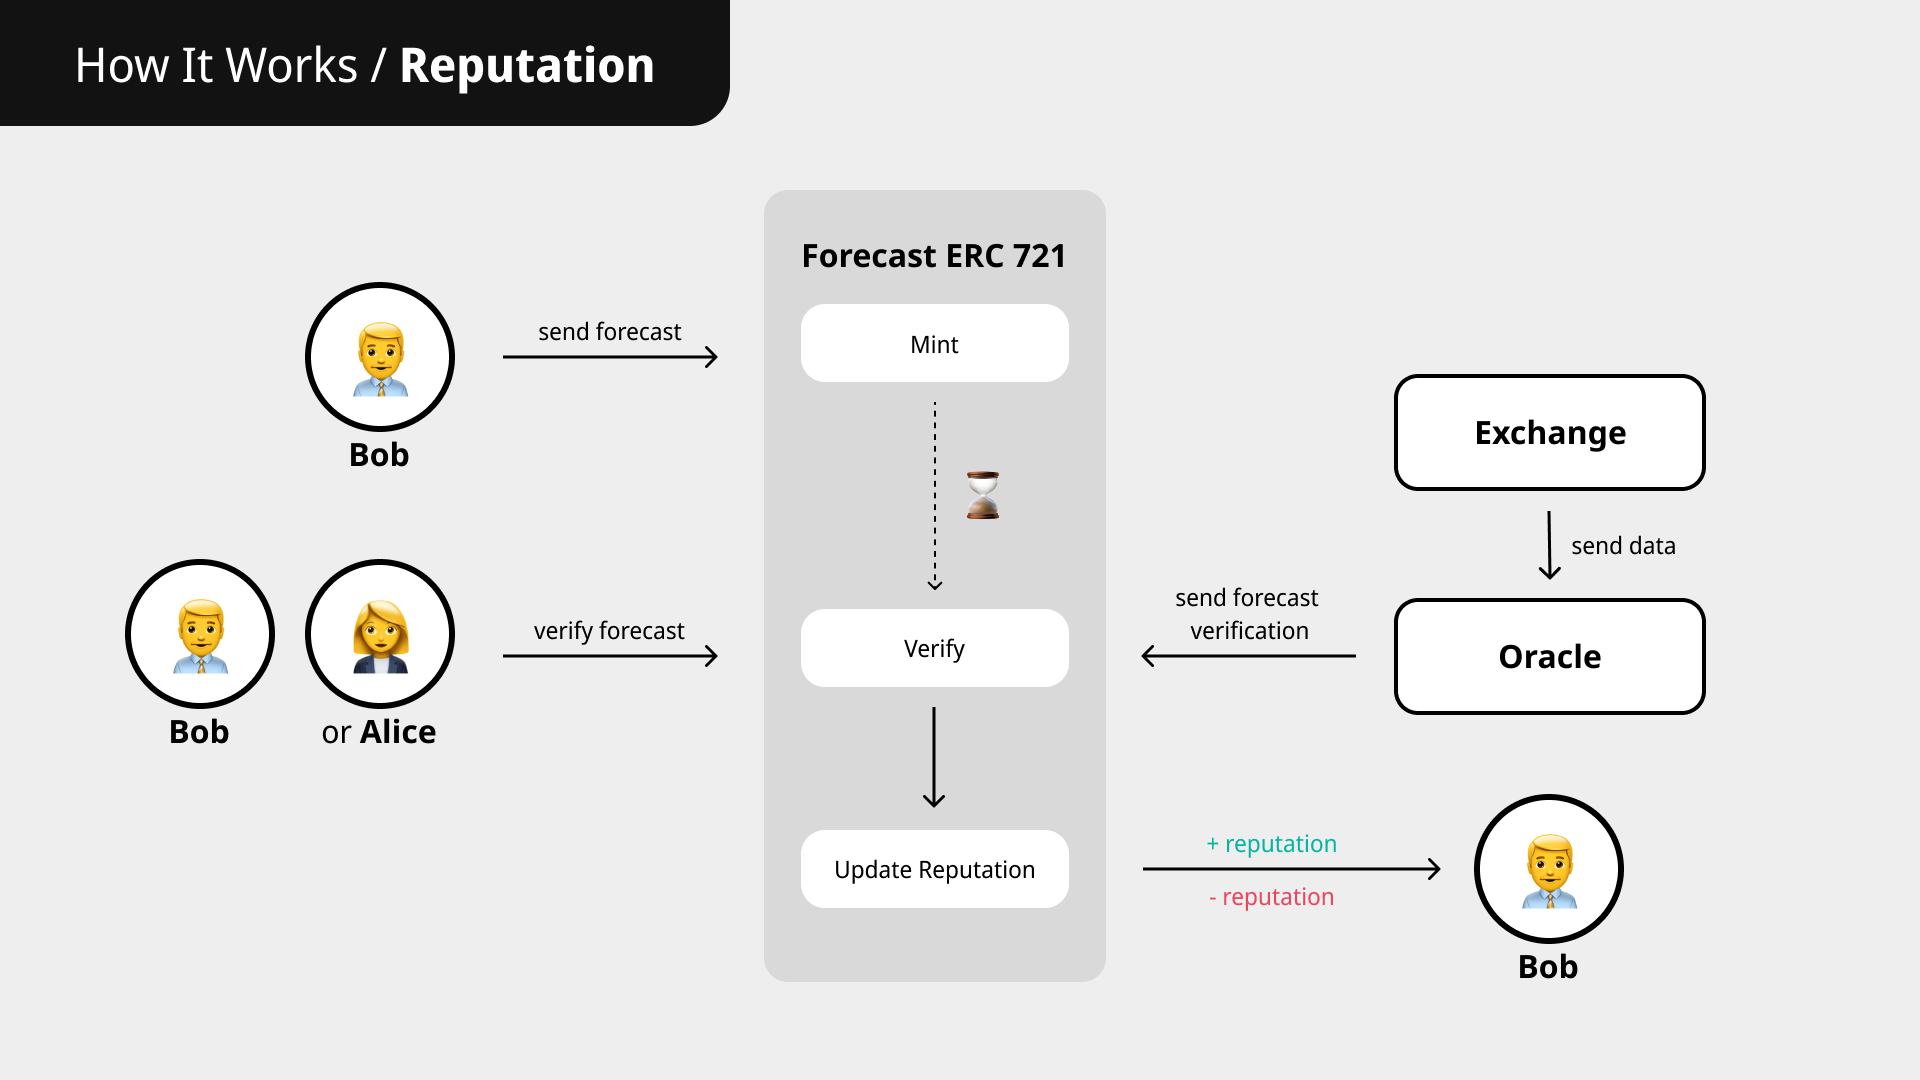
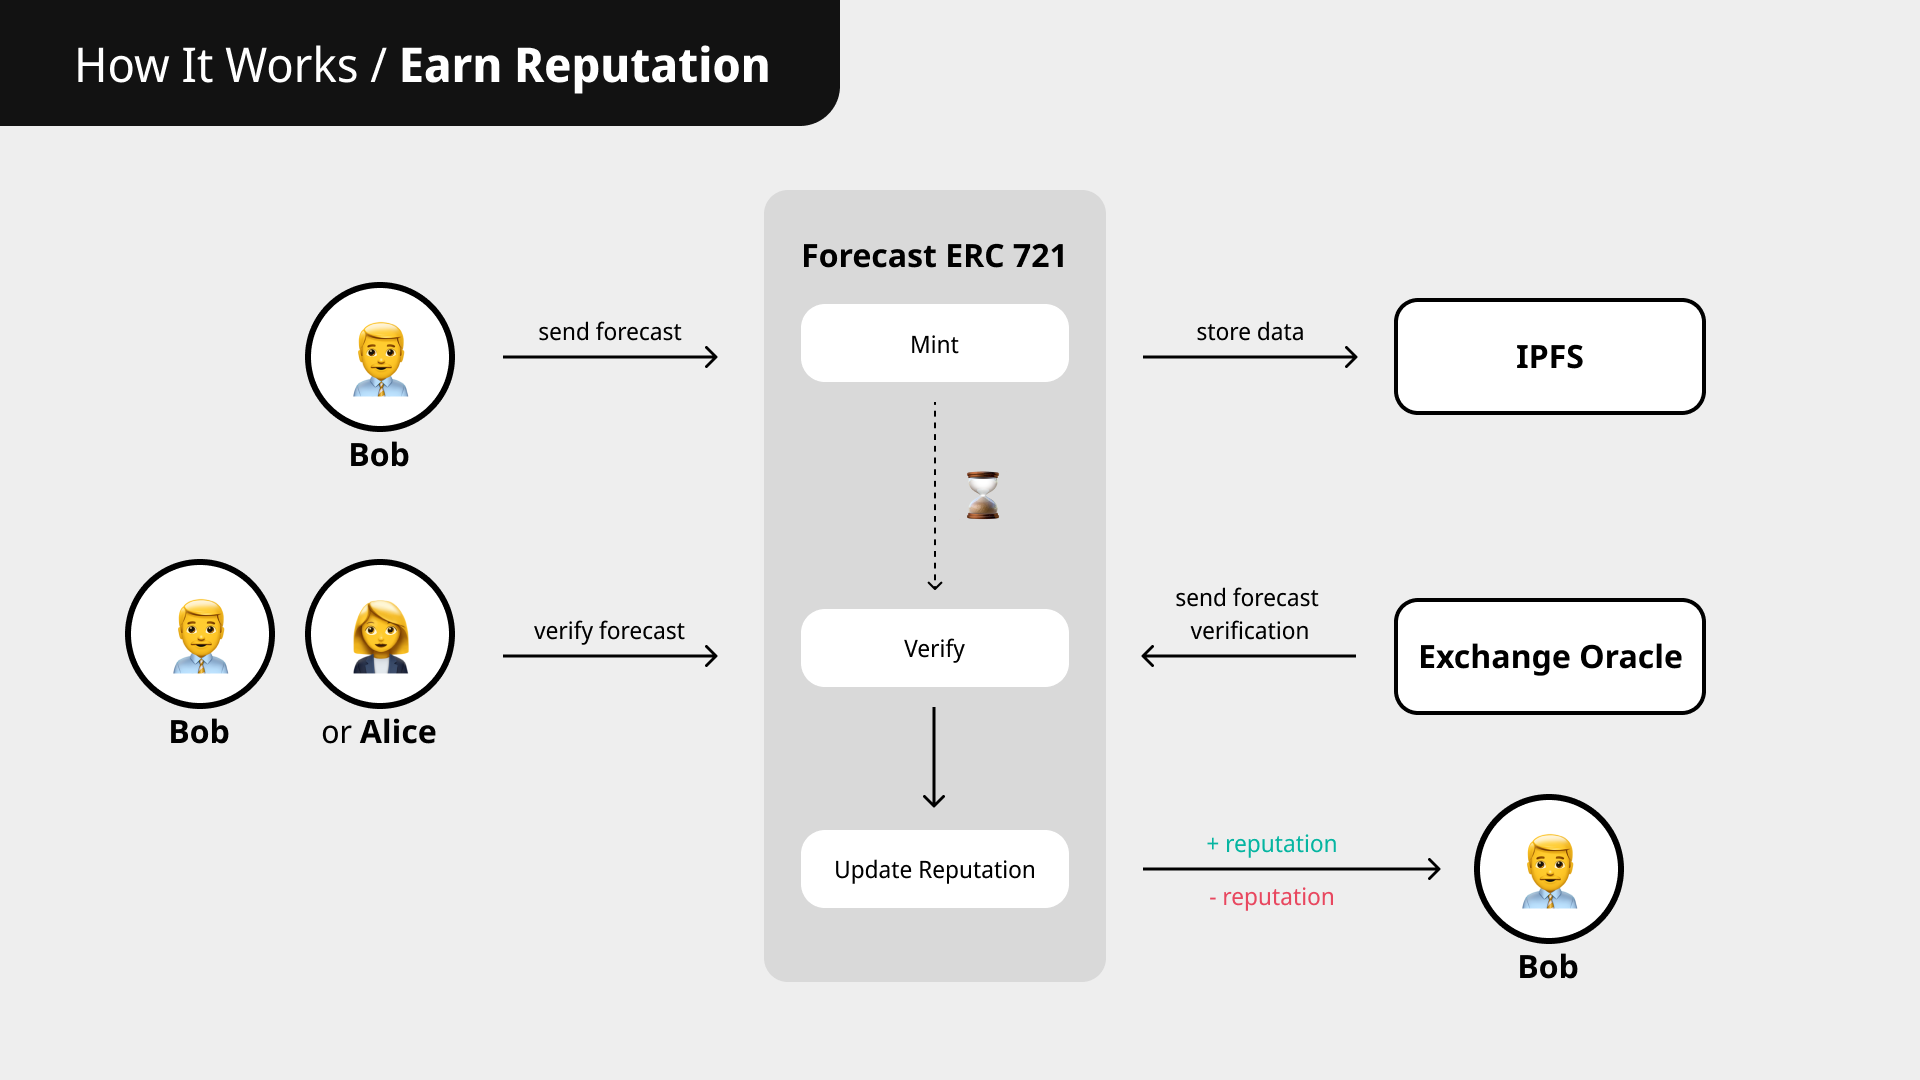
Update README.md

diff --git a/README.md b/README.md
@@ -1,6 +1,6 @@
 # TradeRep App
 
-An application for traders to build their own reputation on the blockchain and filter out scammers.
+A decentrilized application that helps investors and beginners save money and time by filtering good traders from scammers with a reputation verified by blockchain
 
 🔗 Live Demo - https://traderep-app.vercel.app
 
@@ -18,11 +18,12 @@ An application for traders to build their own reputation on the blockchain and f
 
 ## Stack
 
+- IPFS (Web3.Storage)
 - TypeScript
 - Next.js
 - MUI
 - ethers.js
-- EVM based Smart Contracts
+- Solidity Smart Contracts
 - The Graph
 - Zora (https://zora.co/)
 - Lit Protocol (https://litprotocol.com/)
